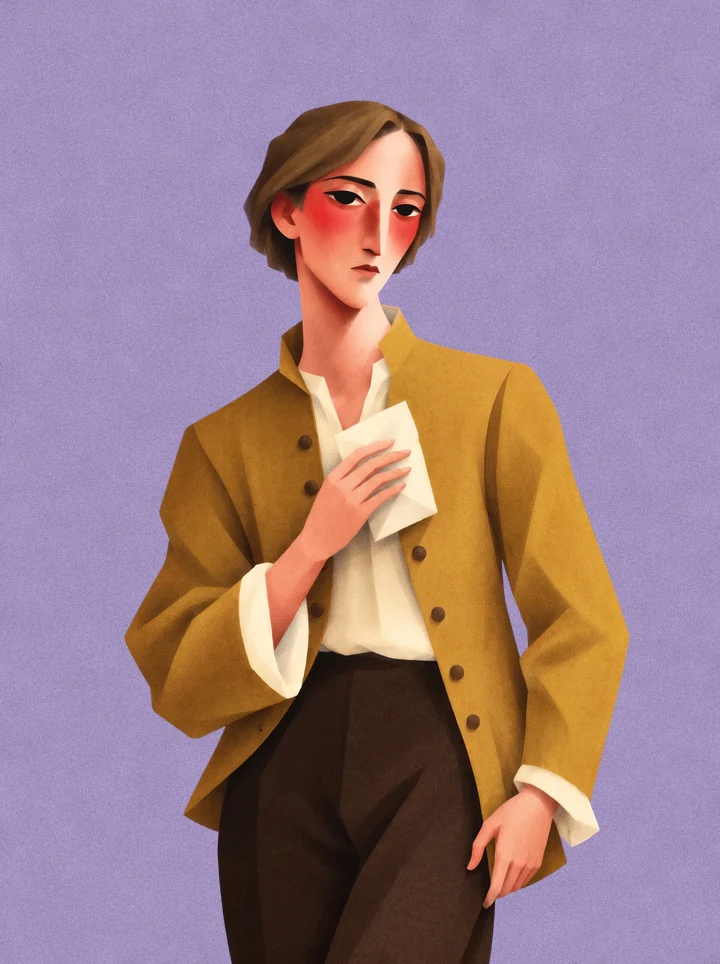
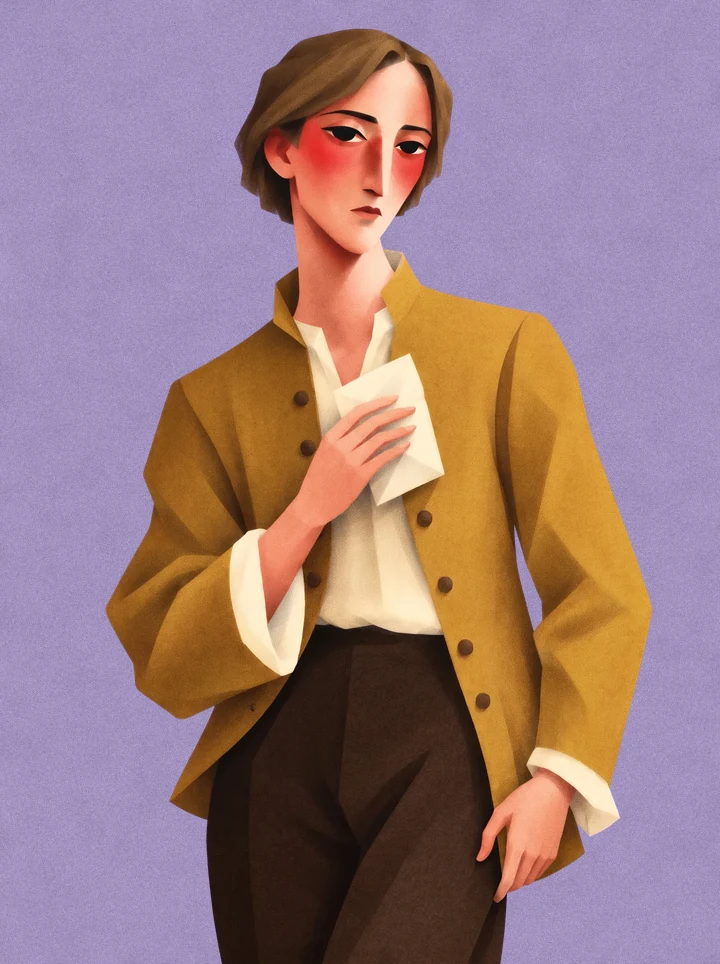
Art: Cherubino's portrait fills its frame like the others (it was placed smaller than the frame in Figma)
Claude-Session: https://claude.ai/code/session_01J9nR1BmP9TjDnKqecdbpyd

Changed region(s): [[0.1222, 0.0311, 0.9167, 1.0], [0.5194, 0.8402, 0.55, 0.8714], [0.4889, 0.8714, 0.5194, 0.9025]]

diff --git a/scripts/art/build.py b/scripts/art/build.py
@@ -54,12 +54,14 @@ def grain(size, seed, strength=7.0):
     # fine: a speckle at pixel size, a little grain just above it, and only a hint of mottling
     return layer(0, 5.0 * k) + layer(0.6, 2.0 * k) + layer(8, 1.2 * k)
 
-def render(fr, bg, out_size, seed, replace=None, keep_scene=False):
+def render(fr, bg, out_size, seed, replace=None, keep_scene=False, fill=False):
     W, Hh = round(fr['size']['x']), round(fr['size']['y'])
     s = out_size[0] / W
     ow, oh = out_size
     figure = Image.new('RGBA', (ow, oh), (0, 0, 0, 0))
     for h, x, y, w, hh, fx, fy in layers(fr):
+        # a picture placed smaller than its frame in Figma, stretched to fill the frame like the others
+        if fill: x, y, w, hh = 0, 0, W, Hh
         h = (replace or {}).get(h, CUTOUT.get(h, h))
         im = img(h)
         # FILL: scale to cover the rectangle, centred
@@ -98,7 +100,7 @@ for i, (key, c) in enumerate(chars.items()):
     bg = pal[key]
     for k in ('portrait', 'face'):
         fr = next(f for f in frames if kind(f) == k and c[k] in [CUTOUT.get(l[0], l[0]) for l in layers(f)])
-        im = render(fr, bg, SIZES[k], seed=i * 7 + (k == 'face'))
+        im = render(fr, bg, SIZES[k], seed=i * 7 + (k == 'face'), fill=k in c.get('fill', []))
         # mirrored where the picture should face the other way
         if c.get('flip'): im = im.transpose(Image.FLIP_LEFT_RIGHT)
         im.save(f'{OUT}/{opera}-{ch}-{k}.webp', quality=88, method=6)
